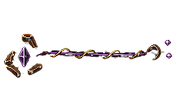
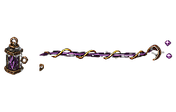
Replace Hexer glyph with authored lantern source

Changed region(s): [[0.1989, 0.375, 0.9943, 0.5625], [0.0, 0.2946, 0.2557, 0.6964], [0.9375, 0.3482, 0.9659, 0.4286]]

diff --git a/assets/game-art/combat-animation/build_assets.py b/assets/game-art/combat-animation/build_assets.py
@@ -42,7 +42,7 @@ SOURCE_DIGESTS = {
[5 lines of base64/hex data omitted]
 }
 
 WARDEN_CROPS = {

diff --git a/assets/game-art/combat-animation/generation-log.md b/assets/game-art/combat-animation/generation-log.md
@@ -337,7 +337,7 @@ The replacement keeps eight isolated authored layers and removes baked floor pix
 - Input image: preceding project-owned `shuttergate-sapper-hexer-intent-atlas-master.png`
[4 lines of base64/hex data omitted]
 - License: project MIT license (`LICENSE`)
 
 ### Exact replacement prompt
@@ -361,6 +361,8 @@ Make one surgical correction to this ORIGINAL project-owned 1536x1024 4-column x
 Make one surgical production correction to this ORIGINAL project-owned 1536x1024 4-column x 2-row VFX atlas. Preserve every visible pixel, pure black background, canvas, strict grid, painterly style, and asset exactly unchanged except top row, second column. Move and slightly compress the complete Sapper preparation artwork—the recognizable bomb, physical braided fuse, sparse ember/smoke marks, and open etched destination scratches—so all visible pixels remain inside x=384 through x=767 and y=0 through y=511. Preserve the full bomb silhouette at the left, one continuous readable fuse through the middle, and the open destination footprint at the right. Do not alter the adjacent cells, add a second bomb, clip, erase, redesign, enlarge, brighten, add particles, or change any other asset.
 
 The image correction retained four meaningful Hexer-source pixels across the equal-cell boundary. A deterministic Pillow correction recovered the complete artwork from x=350 through x=767, cleared that bounded region, resized the recovered keyed artwork proportionally to 344×96 pixels, and placed it at x=404, y=728. This leaves 20 black pixels on both sides of the canonical x=384 through x=767 export cell without changing the other seven assets.
+
+Adversarial runtime-scale review then found that the open source rune collapsed to a generic purple diamond. A second deterministic source correction reused the atlas's authored freestanding Hexer lantern pixels: the keyed lantern was proportionally reduced to 49×78 pixels and placed at x=404, y=737 inside the channel cell, replacing only the diamond-like source region. The narrow channel, frayed endpoint, separate recipient mark, and the other seven canonical cells remain unchanged.
 
 ### Bounded QA and export semantics
 
